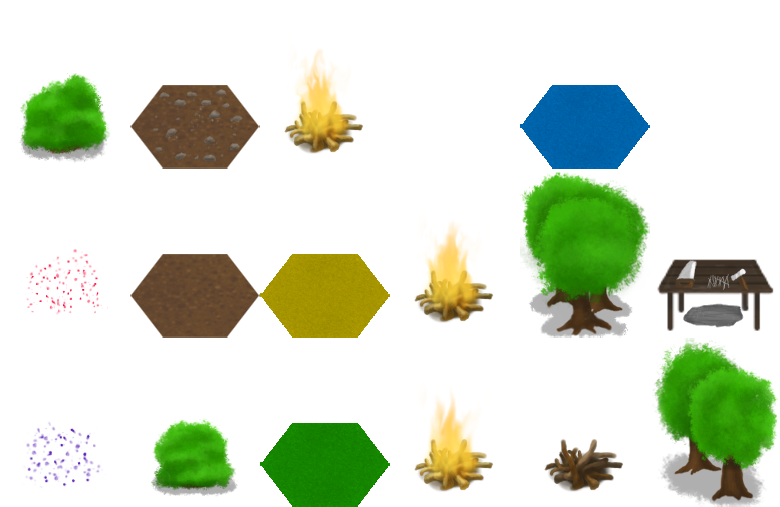
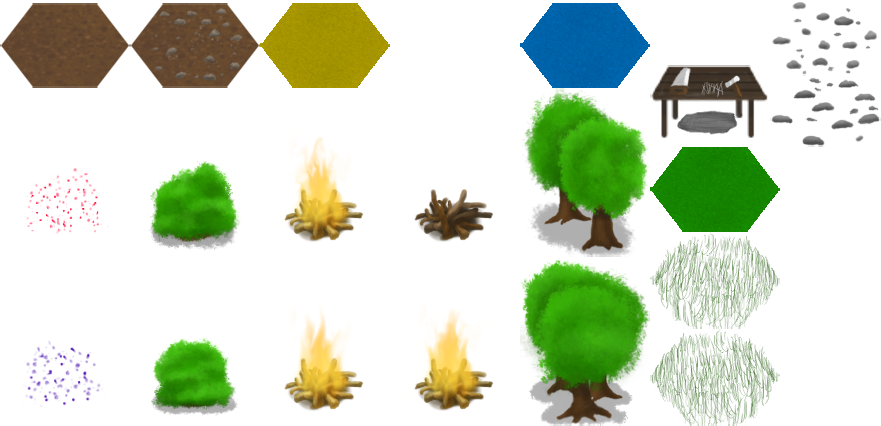
fixed a problem with the rendering system , added some random sprites above the grass and dirt

diff --git a/core/src/com/nemo9955/starting_fire/game/ashley/RenderSystem.java b/core/src/com/nemo9955/starting_fire/game/ashley/RenderSystem.java
@@ -5,6 +5,7 @@ import com.badlogic.ashley.core.Engine;
 import com.badlogic.ashley.core.Entity;
 import com.badlogic.ashley.core.EntitySystem;
 import com.badlogic.ashley.core.Family;
+import com.badlogic.ashley.utils.ImmutableArray;
 import com.badlogic.gdx.graphics.g2d.TextureRegion;
 import com.nemo9955.starting_fire.game.ashley.components.CAnimation;
 import com.nemo9955.starting_fire.game.ashley.components.CCollision;
@@ -17,12 +18,12 @@ import com.nemo9955.starting_fire.storage.SF;
 public class RenderSystem extends EntitySystem {
 
 	@SuppressWarnings("unchecked")
-	Family				family	= Family.getFor(
-											ComponentType.getBitsFor(CPosition.class, CInfo.class),
-											ComponentType.getBitsFor(CTexture.class, CAnimation.class, CCollision.class),
-											ComponentType.getBitsFor());
-	public boolean		render	= true;
-	private Entity[]	entities;
+	private Family					family	= Family.getFor(
+														ComponentType.getBitsFor(CPosition.class, CInfo.class),
+														ComponentType.getBitsFor(CTexture.class, CAnimation.class, CCollision.class),
+														ComponentType.getBitsFor());
+	public boolean					render	= true;
+	private ImmutableArray<Entity>	entities;
 
 	public RenderSystem() {
 		super(0);
@@ -30,13 +31,19 @@ public class RenderSystem extends EntitySystem {
 
 	@Override
 	public void addedToEngine( Engine engine ) {
-		entities = engine.getEntitiesFor(family).toArray(Entity.class);
+		entities = engine.getEntitiesFor(family);
+	}
+
+	@Override
+	public void removedFromEngine( Engine engine ) {
+		entities = null;
 	}
 
 	@Override
 	public void update( float deltaTime ) {
 
-		for (Entity entity : entities) {
+		for (int i = 0; i < entities.size(); i++) {
+			Entity entity = entities.get(i);
 			CPosition po = CM.Pos.get(entity);
 			CTexture tex = CM.Tex.get(entity);
 
@@ -47,18 +54,20 @@ public class RenderSystem extends EntitySystem {
 			}
 		}
 
-		for (Entity entity : entities) {
+		for (int i = 0; i < entities.size(); i++) {
+			Entity entity = entities.get(i);
 			CPosition po = CM.Pos.get(entity);
 			CTexture tex = CM.Tex.get(entity);
 			if ( tex != null )
-				for (int i = 1; i < tex.tex.size; i++) {
-					TextureRegion texture = tex.tex.get(i);
+				for (int t = 1; t < tex.tex.size; t++) {
+					TextureRegion texture = tex.tex.get(t);
 					SF.spritesBatch.draw(texture, po.x, po.y, texture.getRegionWidth(), texture.getRegionHeight());
 				}
 
 		}
 
-		for (Entity entity : entities) {
+		for (int i = 0; i < entities.size(); i++) {
+			Entity entity = entities.get(i);
 			CPosition po = CM.Pos.get(entity);
 			CInfo wo = CM.Info.get(entity);
 			CAnimation anim = CM.Anim.get(entity);

diff --git a/core/src/com/nemo9955/starting_fire/game/world/WorldGenerator.java b/core/src/com/nemo9955/starting_fire/game/world/WorldGenerator.java
@@ -8,6 +8,7 @@ import com.nemo9955.starting_fire.game.ashley.PreSorter;
 import com.nemo9955.starting_fire.game.ashley.components.CInfo;
 import com.nemo9955.starting_fire.game.ashley.components.CM;
 import com.nemo9955.starting_fire.game.tiles.BerriesFactory;
+import com.nemo9955.starting_fire.game.tiles.DecalFactory;
 import com.nemo9955.starting_fire.game.tiles.FireFactory;
 import com.nemo9955.starting_fire.game.tiles.HexBase;
 import com.nemo9955.starting_fire.game.tiles.TreesFactory;
@@ -157,11 +158,6 @@ public class WorldGenerator {
 
 	@SuppressWarnings("unchecked")
 	private static void addDetails() {
-		for (int q = 0; q < world.width; q++)
-			for (int r = 0; r < world.height; r++)
-				if ( q == world.width / 2 && r == world.height / 2 )
-					FireFactory.useElement(world.getHex(q, r));
-
 		Entity[] entities = world.engine.getEntitiesFor(Family.getFor(CInfo.class)).toArray(Entity.class);
 
 		for (Entity ent : entities)
@@ -172,6 +168,10 @@ public class WorldGenerator {
 			if ( CM.Info.get(ent).hex == HexBase.Grass && MathUtils.randomBoolean(0.06f) )
 				BerriesFactory.useElement(ent);
 
+		for (Entity ent : entities)
+			DecalFactory.useRandomElement(ent);
+
+		FireFactory.useElement(world.getHex(world.width / 2, world.height / 2));
 	}
 
 	public static enum GenType {

diff --git a/core/src/com/nemo9955/starting_fire/game/tiles/DecalFactory.java b/core/src/com/nemo9955/starting_fire/game/tiles/DecalFactory.java
@@ -1,0 +1,33 @@
+package com.nemo9955.starting_fire.game.tiles;
+
+import com.badlogic.ashley.core.Entity;
+import com.badlogic.gdx.graphics.g2d.TextureAtlas.AtlasRegion;
+import com.badlogic.gdx.math.MathUtils;
+import com.badlogic.gdx.utils.Array;
+import com.nemo9955.starting_fire.game.ashley.components.CInfo;
+import com.nemo9955.starting_fire.game.ashley.components.CInfo.Spot;
+import com.nemo9955.starting_fire.game.ashley.components.CM;
+import com.nemo9955.starting_fire.game.ashley.components.CTexture;
+import com.nemo9955.starting_fire.storage.SF;
+
+public class DecalFactory {
+
+	public static Array<AtlasRegion>	weeds	= SF.atlas.findRegions("weeds");
+	public static Array<AtlasRegion>	stones	= SF.atlas.findRegions("stones");
+
+	public static void useRandomElement( Entity entity ) {
+		CInfo in = CM.Info.get(entity);
+		if ( in.spot != Spot.empty )
+			return;
+
+		// EntityManager manager = CM.Info.get(entity).world.manager;
+
+		CTexture te = CM.Tex.get(entity);
+		if ( in.hex == HexBase.Grass && MathUtils.randomBoolean(0.4f) )
+			te.tex.insert(1, weeds.random());
+		else if ( in.hex == HexBase.Dirt && MathUtils.randomBoolean(0.15f) )
+			te.tex.insert(1, stones.random());
+
+	}
+
+}

diff --git a/core/src/com/nemo9955/starting_fire/game/world/World.java b/core/src/com/nemo9955/starting_fire/game/world/World.java
@@ -26,6 +26,9 @@ import com.nemo9955.starting_fire.storage.SF;
 
 public class World implements Disposable {
 
+	private UpdateSystem	updSys		= new UpdateSystem();
+	private RenderSystem	rendSys		= new RenderSystem();
+
 	PooledEngine			engine		= new PooledEngine();
 	public EntityManager	manager		= new EntityManager(this);
 	public int				width, height, hexWidht, hexHeight;
@@ -41,10 +44,10 @@ public class World implements Disposable {
 		this.hexHeight = hexHeight;
 		map = new IntMap<Entity>(width * height);
 
-		generateNewWorldType();
+		engine.addSystem(rendSys);
+		engine.addSystem(updSys);
 
-		engine.addSystem(new RenderSystem());
-		engine.addSystem(new UpdateSystem());
+		generateNewWorldType();
 	}
 
 	public void generateNewWorldType() {

diff --git a/core/src/com/nemo9955/starting_fire/states/Gameplay.java b/core/src/com/nemo9955/starting_fire/states/Gameplay.java
@@ -32,7 +32,7 @@ public class Gameplay extends InputAdapter implements Screen {
 		camera.setToOrtho(false);
 		camera.update();
 		viewport = new ScreenViewport(camera);
-		viewport.setUnitsPerPixel(1.9f);
+		viewport.setUnitsPerPixel(2.0f);
 
 		stage = new GamePlayStage();
 
@@ -46,7 +46,7 @@ public class Gameplay extends InputAdapter implements Screen {
 	public void show() {
 		Gdx.input.setInputProcessor(inputs);
 		stage.restart();
-		world = new World(15, 13, 127, 82);
+		world = new World(19, 15, 128, 83);
 	}
 
 	private long	startTime;

diff --git a/core/src/com/nemo9955/starting_fire/game/stage/GamePlayStage.java b/core/src/com/nemo9955/starting_fire/game/stage/GamePlayStage.java
@@ -49,10 +49,9 @@ public class GamePlayStage extends Stage {
 	}
 
 	private void createHUD() {
+		hudNotifBut.setSize(40, 55);
+
 		hudHolder.addActor(hudMenuBut);
-		// TextureRegion vCen = Assets.ELEMENTS_PACK.asset(TextureAtlas.class).findRegion("vCenter", 0);
-		// hudCenter.setBackground(new TextureRegionDrawable(vCen));
-		// hudCenter.set
 		hudHolder.addActor(hudCenter);
 		hudHolder.addActor(hudNotifBut);
 

diff --git a/core/src/com/nemo9955/starting_fire/game/tiles/BerriesFactory.java b/core/src/com/nemo9955/starting_fire/game/tiles/BerriesFactory.java
@@ -24,10 +24,10 @@ public class BerriesFactory {
 
 	public static void useElement( Entity entity ) {
 		CInfo in = CM.Info.get(entity);
-		if ( in.spot == Spot.empty )
-			in.spot = Spot.used;
-		else
+		if ( in.spot != Spot.empty )
 			return;
+		else
+			in.spot = Spot.used;
 		EntityManager manager = CM.Info.get(entity).world.manager;
 
 		manager.addTexture(entity, bush.random());
